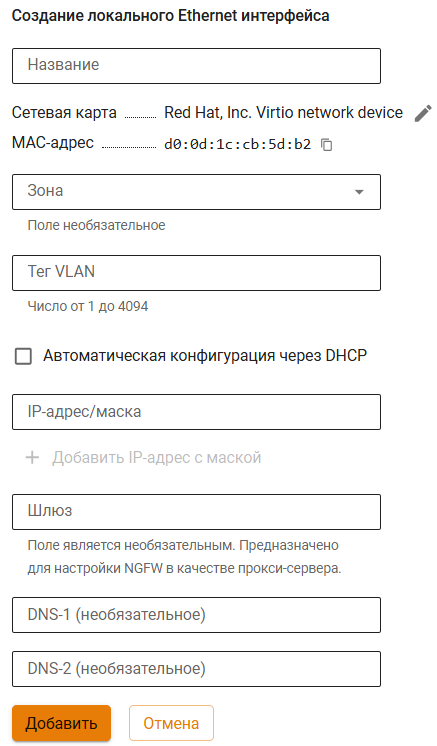
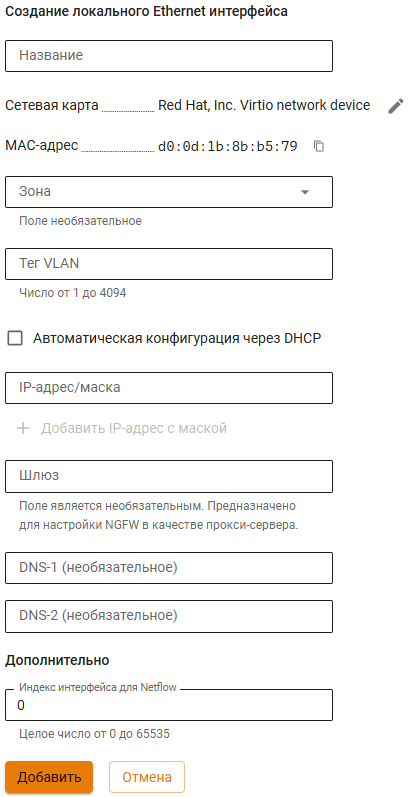
ICS-47995 VPP. Добавляется раздел Netflow

diff --git a/settings/monitor/netflow.md b/settings/monitor/netflow.md
@@ -1,0 +1,57 @@
+---
+description: >-
+  В статье описана настройка экспорта статистики трафика на коллектор во внешней или локальной сети по протоколу Netflow. 
+---
+
+# Netflow
+
+Netflow - проприетарный открытый протокол, разработанный Cisco для мониторинга статистики трафика в сети. Ideco NGFW VPP выступает в качестве сенсора-экспортера, который собирает статистику при прохождении через него трафика. 
+
+Netflow обеспечивает сбор информации об IP-трафике, обрабатываемом сетевыми устройствами (L3-коммутаторы, маршрутизаторы, сенсоры). Каждый поток является однонаправленным, т.е. каждое двунаправленное соединение **src <--> dst** интерпретируется как два потока: **src -> dst** и **dst -> src**.
+
+## Настройка экспорта по Netflow
+
+При включении Netflow рекомендуем настроить индексы Netflow для интерфейсов, статистику по которым планируется передавать. Это можно сделать в настройках сетевых интерфейсов, значение по умолчанию - 0. Индексы Netflow не меняются при включении, выключении или изменении интерфейса.
+
+{% hint style="warning" %}
+Идентификаторами потоков служат индексы Netflow. Потоки с одинаковыми индексами для сбора статистики проходят через один интерфейс учета трафика. 
+{% endhint %}
+
+Для настройки Netflow перейдите на вкладку **Мониторинг -> Netflow**:
+
+![](/.gitbook/assets/netflow.png)
+
+* **Версия протокола** - выберите версию протокола Netflow. Доступны Netflow 5, Netflow 9 (по умолчанию) и Netflow 10 (IPFIX).
+* **Интерфейсы учета трафика** - выберите интерфейсы, трафик которых хотите мониторить (доступны [Ethernet-интерфейсы](/settings/services/server-configuration-management.md)). Если не заполнены, статистика не будет экспортироваться.
+* **Интервал отправки для активного потока, секунды** - введите временной интервал, через который Ideco NGFW VPP будет отправлять на коллектор отчеты по потокам, которые не успели завершиться (информация о завершенных потоках отправляется по завершении). От 60 до 3600 секунд, по умолчанию - 300.
+* **IP-адрес коллектора** - введите IP-адрес коллектора данных. Если не заполнен, статистика не будет экспортироваться.
+* **Порт коллектора** - введите номер UDP-порта коллектора данных, используемого для приема пакетов Netflow.
+* **Интервал отправки шаблона, пакеты** - количество пакетов, через которое на коллектор будет послан шаблон. Минимум 10, максимум 6000, по умолчанию - 20. Доступно только при выборе Netflow 9 или Netflow 10 (IPFIX) в поле **Версия протокола**.
+* **Интервал отправки шаблона, секунды** - количество секунд, через которое на коллектор будет послан шаблон. Минимум 60, максимум 86400, по умолчанию - 1800. Доступно только при выборе Netflow 9 или Netflow 10 (IPFIX) в поле **Версия протокола**.
+
+{% hint style="warning" %}
+Данные в Netflow передаются по протоколу UDP. Поэтому пока коллектор не получит шаблон передаваемых данных, отчеты будут игнорироваться. Правильная настройка полей **Интервал отправки шаблона** позволяет минимизировать потери при отсутствии связи с коллектором или его перезагрузке.
+{% endhint %}
+
+## Структура передаваемых на коллектор данных
+
+Структура заголовка и записей для Netflow 5 доступна по [ссылке](https://www.cisco.com/c/en/us/td/docs/net_mgmt/netflow_collection_engine/3-6/user/guide/format.html#wp1006108).
+
+Структура шаблона для Netflow 9 и Netflow 10 (IPFIX) представлена в таблице:
+
+| Поле | Код поля | Длина поля, байт | Описание |
+|------|----------|------------------|----------|
+| IPV4_SRC_ADDR | 8 | 4 | IP-адрес источника |
+| IPV4_DST_ADDR | 12 | 4 | IP-адрес назначения |
+| INPUT_SNMP | 10 | 2 | Индекс входящего интерфейса |
+| OUTPUT_SNMP | 14 | 2 | Индекс исходящего интерфейса |
+| IN_BYTES | 1 | 8 | Количество байт, переданных в потоке |
+| IN_PKTS | 2 | 8 | Количество пакетов переданных в потоке |
+| FIRST_SWITCHED | 22 | 4 | Время начала потока (sys uptime ms) |
+| LAST_SWITCHED | 21 | 4 | Время последнего прохождения трафика в потоке (sys uptime ms) |
+| L4_SRC_PORT | 7 | 2 | Порт источника |
+| L4_DST_PORT | 11 | 2 | Порт назначения |
+| TCP_FLAGS | 6 | 1 | Флаги TCP (суммарно зафиксированные за время наблюдения потока) |
+| PROTOCOL | 4 | 1 | Код протокола |
+| SRC_MASK | 9 | 1 | Маска IP-адреса источника |
+| DST_MASK | 13 | 1 | Маска IP-адреса назначения |

diff --git a/settings/services/server-configuration-management.md b/settings/services/server-configuration-management.md
@@ -3,7 +3,7 @@
 Работа с сетевыми интерфейсами проводится в разделе **Сервисы -> Сетевые интерфейсы**.
 
 Ideco NGFW VPP использует в работе два типа сетевых интерфейсов:
-* Control Plane - интерфейсы администрирования, используемые для настройки NGFW VPP через браузер. Имеет свой выход в интернет;
+* Control Plane - интерфейсы администрирования, используемые для настройки NGFW VPP через браузер. Имеет свой выход в интернет.
 * Data Plane - интерфейсы, используемые для подключения пользователей к NGFW VPP и для подключения NGFW VPP к провайдеру.
 
 ![](/.gitbook/assets/setup.png)
@@ -40,14 +40,15 @@ Ideco NGFW VPP использует в работе два типа сетевы
 
 ![](/.gitbook/assets/initial-setup-web8.png)
 
-* **Название интерфейса** - имя для идентификации интерфейса;
-* **Сетевая карта** - сетевой адаптер, который будет использоваться для подключения к интернет-провайдеру;
-* **Зона** - объект, который будет включать в себя создаваемый туннельный интерфейс;
-* **Тег VLAN**- VLAN ID. Поле заполняется в том случае если сетевая карта уже используется;
-* **Автоматическая настройка через DHCP** - Используйте, если ваш интернет-провайдер поддерживает автоматическую настройку Ethernet-интерфейса с помощью протокола DHCP;
-* **IP-адрес/маска** - Можно назначить на интерфейс несколько IP-адресов. Должен быть указан хотя бы один IP-адрес;
+* **Название интерфейса** - имя для идентификации интерфейса.
+* **Сетевая карта** - сетевой адаптер, который будет использоваться для подключения к интернет-провайдеру.
+* **Зона** - объект, который будет включать в себя создаваемый туннельный интерфейс.
+* **Тег VLAN**- VLAN ID. Поле заполняется в том случае если сетевая карта уже используется.
+* **Автоматическая настройка через DHCP** - Используйте, если ваш интернет-провайдер поддерживает автоматическую настройку Ethernet-интерфейса с помощью протокола DHCP.
+* **IP-адрес/маска** - Можно назначить на интерфейс несколько IP-адресов. Должен быть указан хотя бы один IP-адрес.
 * **Шлюз** - IP-адрес шлюза. Шлюз не будет использоваться, если в разделе **Сервисы -> DNS** \
 **-> Внешние DNS-серверы** не создано правило **Использования DNS, выданного подключению**.
+* **Индекс интерфейса для Netflow** - индекс для идентификации интерфейса (целое число от 0 до 65535), если используете Netflow.
 
 5\. Нажмите **Добавить**.
 

diff --git a/SUMMARY.md b/SUMMARY.md
@@ -40,6 +40,7 @@
   * [Telegram-бот](/settings/monitor/telegram-bot.md)
   * [SNMP](/settings/monitor/snmp.md)
   * [Zabbix-агент](/settings/monitor/zabbix.md)
+  * [Netflow](/settings/monitor/netflow.md)
 * [Правила трафика](/settings/access-rules/README.md)
   * [Файрвол](/settings/access-rules/firewall.md)
   * [Ограничение скорости](/settings/access-rules/shaper.md)
